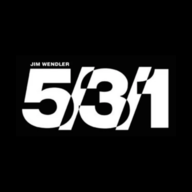
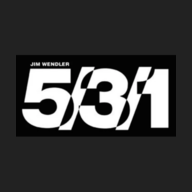
Add new public assets

diff --git a/public/index.html b/public/index.html
@@ -7,12 +7,12 @@
       name="description"
       content="Fitness application to assist with running Jim Wendler's 5/3/1 weight lifting protocol"
     />
-    <link rel="manifest" href="/manifest.json" />
+    <link rel="icon" href="/favicon.ico" />
 
     <link rel="apple-touch-icon" sizes="180x180" href="/apple-touch-icon.png" />
     <link rel="icon" type="image/png" sizes="32x32" href="/favicon-32x32.png" />
     <link rel="icon" type="image/png" sizes="16x16" href="/favicon-16x16.png" />
-    <link rel="icon" href="/favicon.ico" />
+    <link rel="manifest" href="/site.webmanifest" />
     <link rel="mask-icon" href="/safari-pinned-tab.svg" color="#666666" />
     <meta name="apple-mobile-web-app-title" content="FithOn" />
     <meta name="application-name" content="FithOn" />

diff --git a/webpack.config.js b/webpack.config.js
@@ -10,14 +10,12 @@ module.exports = {
   devServer: {
     static: [path.join(__dirname, "dist"), path.join(__dirname, "public")],
     port: PORT,
+    historyApiFallback: true,
   },
   output: {
     path: path.resolve(__dirname, "dist"),
     filename: "index_bundle.js",
     publicPath: "/",
-  },
-  devServer: {
-    historyApiFallback: true,
   },
   resolve: {
     extensions: [".js", ".jsx"],
@@ -55,7 +53,7 @@ module.exports = {
   },
   plugins: [
     new HtmlWebpackPlugin({
-      manifest: "./public/manifest.json",
+      manifest: "./public/site.webmanifest",
       favicon: "./public/favicon.ico",
       template: "./public/index.html",
     }),

diff --git a/src/index.js b/src/index.js
@@ -3,6 +3,7 @@ import ReactDOM from "react-dom";
 import App from "./App";
 import "./index.css";
 import reportWebVitals from "./reportWebVitals";
+import * as serviceWorker from "./serviceWorker";
 
 ReactDOM.render(
   <StrictMode>
@@ -15,3 +16,8 @@ ReactDOM.render(
 // to log results (for example: reportWebVitals(console.log))
 // or send to an analytics endpoint. Learn more: https://bit.ly/CRA-vitals
 reportWebVitals();
+
+// If you want your app to work offline and load faster, you can change
+// unregister() to register() below. Note this comes with some pitfalls.
+// Learn more about service workers: https://bit.ly/CRA-PWA
+serviceWorker.register();

diff --git a/src/components/SignIn.js b/src/components/SignIn.js
@@ -30,7 +30,7 @@ export default function SignIn() {
   return (
     <Container>
       <Fade in={isLoading} unmountOnExit>
-        <img src={FithOnLogo} alt="" style={{ width: "80%" }} />
+        <img src={FithOnLogo} alt="" width={300} height={150} />
       </Fade>
       <Fade in={showMessage} unmountOnExit>
         <h3 style={{ textAlign: "center" }}>Let's get started...</h3>
